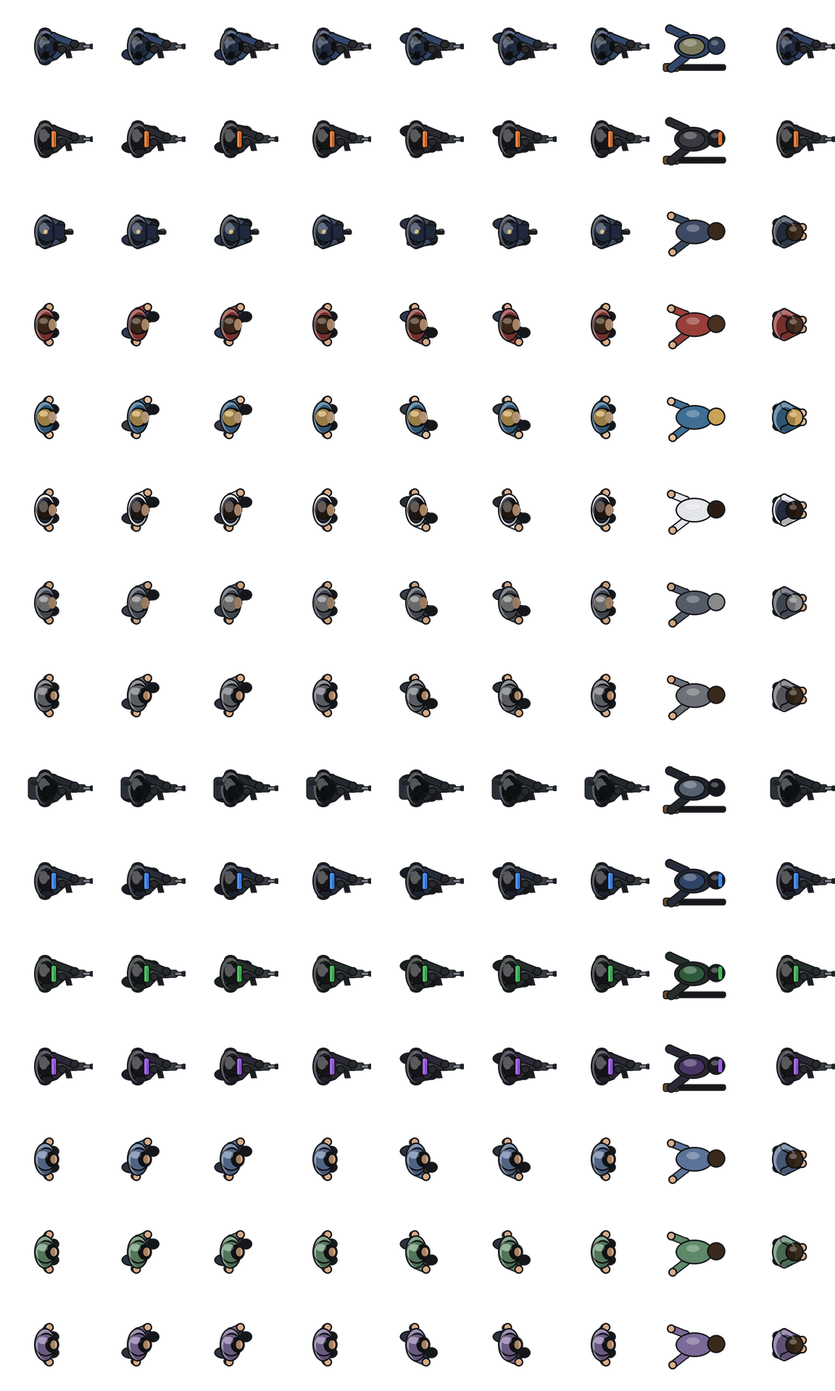
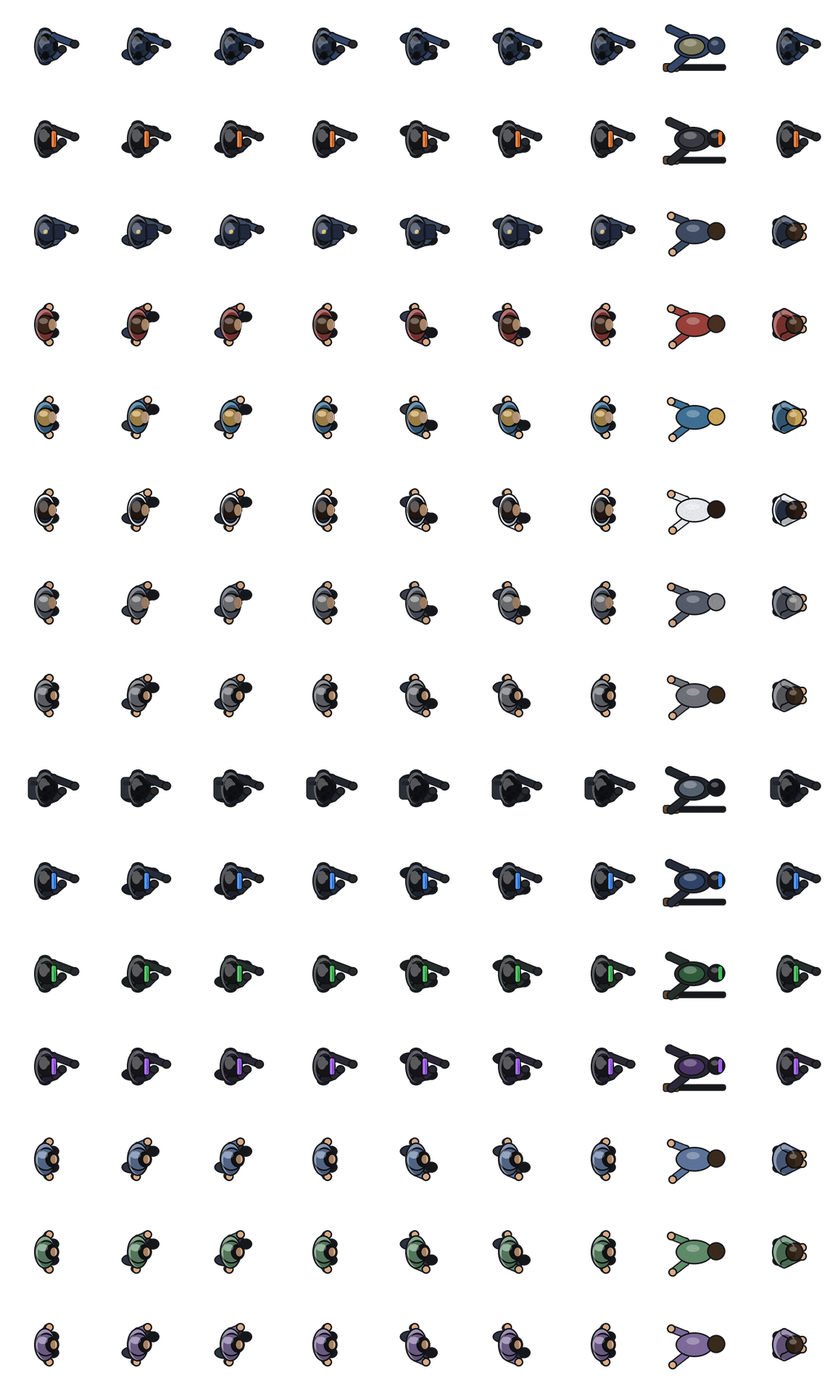
2D: Waffen sichtbar in der Hand, je Art ein eigenes Bild (#309)
Die bewaffneten Figuren in chars.png tragen keine Waffe mehr im Bild. js/draw.js zeichnet sie als eigenes Bild (props2.png ab (0,320)) ueber dem Koerper, in Blickrichtung gedreht: Pistole, MP, Sturmgewehr (kit.w), angelegtes Praezisionsgewehr und Granatwerfer, bei den Gegnern Beamter, Schild und Wachmann Pistole, SWAT Gewehr, Scharfschuetze Praezisionsgewehr. Muendungsfeuer sitzt an der Laufspitze der Art, die Waffe zuckt beim Schuss zurueck. Kein neues Netzfeld, fehlt das Bild wird ohne Waffe gezeichnet.

Closes #292

Claude-Session: https://claude.ai/code/session_013ZjezpqAXpbhY6DYUHu66t

diff --git a/js/draw.js b/js/draw.js
@@ -122,6 +122,12 @@ g.lineWidth=1.5;for(const q of d.other){if(q.d===2)continue;g.globalAlpha=q.d?.4
 g.font='10px monospace';g.fillStyle='#8d95a1';g.textAlign='right';g.fillText('T: Team wechseln',R.x+R.w-8,R.y+R.h-7);g.textAlign='left'}
 /* Der Fahrer im Deal (Zivilist-Zeile 3, am Boden Zeile 3 geduckt, im Fuehrerhaus unsichtbar), Mündungsfeuer ueber fl */
 function dvDraw(){const v=DX.dl.dv;if(!v||!los(DX.p.x,DX.p.y,v.x,v.y))return;const m=DX.LANE.van.mid(DX.vanX);if(DX.dl.st===3&&Math.hypot(v.x-m[0],v.y-m[1])<8)return;sprite(DX.ch,v.x,v.y,v.a,3,DX.dl.st===3?8:frame(v.w,v.mvg),v.h);if(v.fl>0){g.fillStyle='rgba(255,220,140,.9)';g.beginPath();g.arc(v.x+Math.cos(v.a)*24,v.y+Math.sin(v.a)*24,5,0,6.283);g.fill()}if(v.hp<v.mhp&&DX.dl.st===2){g.fillStyle='rgba(0,0,0,.55)';g.fillRect(v.x-11,v.y-21,22,4);g.fillStyle='#7ee34a';g.fillRect(v.x-10,v.y-20,20*Math.max(0,v.hp)/v.mhp,2)}}
+/* Waffen in der Hand (Ticket 292): eigene Bilder in props2.png ab (0,320), 64x64 je Art, 2 Pixel je Welt-Pixel, Lauf nach +x, Figurenmitte bei Bildpixel (0,32). c Zelle, tip Laufspitze in Welt-Pixeln
+   vor der Figurenmitte (dort sitzt das Muendungsfeuer), kick Rueckstoss der Waffe in Welt-Pixeln beim Schuss. Arten: pistol smg rifle (kit.w), spr Praezisionsgewehr und spl Granatwerfer (angelegte Spezialwaffe), Gegner: ENWPN.
+   Fehlt das Blatt (zu klein) oder die Art, wird ohne Waffe gezeichnet. Nur 2D, die 3D-Ansicht hat ihre eigenen Waffen. Kein Netzfeld: kit.w und der Spezialwaffen-Zustand der eigenen Figur sind schon da (f.wp, f.sw). */
+const WPN2D={pistol:{c:0,tip:20,kick:2},smg:{c:1,tip:27,kick:2.5},rifle:{c:2,tip:31,kick:3},spr:{c:3,tip:31,kick:4},spl:{c:4,tip:29,kick:4}},WPN2D_Y=320,ENWPN={cop:'pistol',grd:'pistol',shield:'pistol',swat:'rifle',sniper:'spr'};
+const plWpn=o=>!o.armed?null:o===DX.me&&DX.spwOn&&spwKind(o)?(spwKind(o)==='rifle'?'spr':'spl'):((o.kit&&o.kit.w)||'pistol'),enWpn=e=>e.sur||e.hp<=0?null:ENWPN[e.kind]||null,wTip=k=>(WPN2D[k]||WPN2D.rifle).tip+2;
+function wpnDraw(x,y,a,k,fl){const W=WPN2D[k],im=p2;if(!W||!im||!(im.naturalWidth>=W.c*64+64)||!(im.naturalHeight>=WPN2D_Y+64))return;const kk=fl>0&&GFX.lv>0?W.kick*Math.min(1,fl/.05):0;g.save();g.translate(x,y);g.rotate(a);g.drawImage(im,W.c*64,WPN2D_Y,64,64,-kk,-16,32,32);g.restore()}
 function sprite(img,x,y,a,row,col,hit,shadow){if(shadow!==false){g.fillStyle='rgba(15,10,5,.33)';g.beginPath();g.ellipse(x+5,y+6,11,9.5,0,0,6.283);g.fill()}
 g.save();g.translate(x,y);g.rotate(a);g.drawImage(hit>0?chF:DX.ch,col*128,row*128,128,128,-32,-32,64,64);g.restore()}
 const frame=(w,mvg)=>mvg?Math.floor((((w%6.2832)+6.2832)%6.2832)/6.2832*6)%6:6;
@@ -370,21 +376,21 @@ for(const o of DX.players)if(o.dead&&o.dn>0&&(o===DX.me||los(DX.p.x,DX.p.y,o.x,o
 for(const q of DX.WUCHT.parts())if(los(DX.p.x,DX.p.y,q.x,q.y))DX.WUCHT.part(g,q,q.z,1);
 for(const k of DX.pk)if(los(DX.p.x,DX.p.y,k.x,k.y)){const yy=k.y+Math.sin(DX.time*3+k.x)*1.5;g.fillStyle='rgba(15,10,5,.3)';g.beginPath();g.ellipse(k.x+2,k.y+6,9,4,0,0,6.283);g.fill();g.drawImage(pr,k.k*64,0,64,64,k.x-17,yy-17,34,34)}
 for(const q of DX.npcs){if(q.st==='away'||!los(DX.p.x,DX.p.y,q.x,q.y))continue;if(q.dlv)drawCart(q);if(q.st==='ko'){koDraw(q);continue}const col=q.st==='cower'?8:frame(q.w,q.mvg);if(q.st==='hostage'){g.strokeStyle='rgba(255,210,90,.9)';g.lineWidth=2;g.beginPath();g.arc(q.x,q.y+5,14,0,6.283);g.stroke()}{const tq=twd('n',q.id);sprite(DX.ch,q.x+tq[0],q.y+tq[1],q.a,q.row,col,0)}if(q.st==='cower'){if(q.rob){g.fillStyle='rgba(210,210,210,.85)';g.font='bold 11px monospace';g.fillText('$',q.x-3,q.y-20);g.strokeStyle='rgba(210,210,210,.85)';g.lineWidth=1.5;g.beginPath();g.moveTo(q.x-6,q.y-12);g.lineTo(q.x+6,q.y-24);g.stroke()}else if(q.rmi&&q.rmi.pr>0){g.fillStyle='rgba(0,0,0,.55)';g.fillRect(q.x-12,q.y-26,24,5);g.fillStyle='#ffd35a';g.fillRect(q.x-11,q.y-25,22*Math.min(1,q.rmi.pr),3)}}if(ucHintOn(q))ucHint(q);if(q.alert>0&&q.st!=='cower'){g.fillStyle='#ff4a3a';g.font='bold 16px monospace';g.fillText('!',q.x-3,q.y-20)}}
-for(const e of DX.en)if(los(DX.p.x,DX.p.y,e.x,e.y)){{const tq=twd('e',e.id);sprite(DX.ch,e.x+tq[0],e.y+tq[1],e.a,e.row,e.sur?8:frame(e.w,e.mvg),e.h)}if(e.kind==='shield')drawShield(e);const mh=e.mhp||100;if(e.hp<mh||e.kind==='swat'||e.kind==='shield'){g.fillStyle='rgba(0,0,0,.55)';g.fillRect(e.x-11,e.y-21,22,4);g.fillStyle=e.kind==='swat'?'#e0a030':e.kind==='shield'?'#7aa6d8':'#d9503f';g.fillRect(e.x-10,e.y-20,20*Math.max(0,e.hp)/mh,2)}}
+for(const e of DX.en)if(los(DX.p.x,DX.p.y,e.x,e.y)){{const tq=twd('e',e.id);sprite(DX.ch,e.x+tq[0],e.y+tq[1],e.a,e.row,e.sur?8:frame(e.w,e.mvg),e.h);wpnDraw(e.x+tq[0],e.y+tq[1],e.a,enWpn(e),e.fl)}if(e.kind==='shield')drawShield(e);const mh=e.mhp||100;if(e.hp<mh||e.kind==='swat'||e.kind==='shield'){g.fillStyle='rgba(0,0,0,.55)';g.fillRect(e.x-11,e.y-21,22,4);g.fillStyle=e.kind==='swat'?'#e0a030':e.kind==='shield'?'#7aa6d8':'#d9503f';g.fillRect(e.x-10,e.y-20,20*Math.max(0,e.hp)/mh,2)}}
 dvDraw();
 if(DX.cart&&los(DX.p.x,DX.p.y,DX.cart.x,DX.cart.y))drawWagen(DX.cart);
-for(const o of DX.players){if(o===DX.p||!live(o)||o.cv||!los(DX.p.x,DX.p.y,o.x,o.y))continue;lnMark(o);sprite(DX.ch,o.x+(lnOff(o)-rcl(o))*Math.cos(o.a),o.y+(lnOff(o)-rcl(o))*Math.sin(o.a),o.a,plRow(o),frame(o.w,o.mvg),o.hurt>.3?1:0);
+for(const o of DX.players){if(o===DX.p||!live(o)||o.cv||!los(DX.p.x,DX.p.y,o.x,o.y))continue;lnMark(o);sprite(DX.ch,o.x+(lnOff(o)-rcl(o))*Math.cos(o.a),o.y+(lnOff(o)-rcl(o))*Math.sin(o.a),o.a,plRow(o),frame(o.w,o.mvg),o.hurt>.3?1:0);wpnDraw(o.x+(lnOff(o)-rcl(o))*Math.cos(o.a),o.y+(lnOff(o)-rcl(o))*Math.sin(o.a),o.a,plWpn(o),o.flash);
 if(o.units>0){g.save();g.translate(o.x,o.y);g.rotate(o.a);g.drawImage(p2,0,0,64,64,-24,-12,24,24);g.restore()}
 if(DX.players.length>1){g.font='10px monospace';g.textAlign='center';g.fillStyle=PC[o.id].c;g.fillText(pn(o.id),o.x,o.y-20);if(o.away){const l=awLeft(o.id);g.fillStyle='#ffb000';g.fillText('Verbindung weg'+(l?' ('+l+' s)':''),o.x,o.y-31)}g.textAlign='left'}}
-if(live(DX.p)&&!DX.p.cv){lnMark(DX.p);sprite(DX.ch,DX.p.x+(lnOff(DX.p)-rcl(DX.p))*Math.cos(DX.p.a),DX.p.y+(lnOff(DX.p)-rcl(DX.p))*Math.sin(DX.p.a),DX.p.a,plRow(DX.p),frame(DX.p.w,DX.p.mvg),DX.p.hurt>.3?1:0);
+if(live(DX.p)&&!DX.p.cv){lnMark(DX.p);sprite(DX.ch,DX.p.x+(lnOff(DX.p)-rcl(DX.p))*Math.cos(DX.p.a),DX.p.y+(lnOff(DX.p)-rcl(DX.p))*Math.sin(DX.p.a),DX.p.a,plRow(DX.p),frame(DX.p.w,DX.p.mvg),DX.p.hurt>.3?1:0);wpnDraw(DX.p.x+(lnOff(DX.p)-rcl(DX.p))*Math.cos(DX.p.a),DX.p.y+(lnOff(DX.p)-rcl(DX.p))*Math.sin(DX.p.a),DX.p.a,plWpn(DX.p),DX.p.flash);
 if(DX.p.units>0){g.save();g.translate(DX.p.x,DX.p.y);g.rotate(DX.p.a);g.drawImage(p2,0,0,64,64,-24,-12,24,24);g.restore()}}
 drawGren();
 for(const q of DX.dbr)if(q.t==='r'){const u=q.a/q.m;glow(q.x,q.y,q.r*(1+u*1.3),'52,48,46',Math.min(1,(1-u)*1.6)*.38)}
 for(const q of DX.pt)if(q.t==='k'){const a=q.l/q.m;glow(q.x,q.y,q.r+(1-a)*(q.dr?58:34),'50,46,44',Math.min(.6,a*.95)*(q.dr?.75:1))}
 g.globalCompositeOperation='lighter';
 for(const b of DX.bl){const k=b.sn||b.pr?.05:b.o?.03:.02;g.strokeStyle=b.pr?'rgba(170,225,255,.95)':b.sn?'rgba(255,245,235,.95)':b.o?'rgba(255,225,150,.9)':'rgba(255,150,90,.8)';g.lineWidth=b.sn||b.pr?2.4:b.o?2:1.5;g.beginPath();g.moveTo(b.x,b.y);g.lineTo(b.x-b.vx*k,b.y-b.vy*k);g.stroke()}
-for(const o of DX.players){if(o.flash<=0||!live(o)||(o!==DX.p&&!los(DX.p.x,DX.p.y,o.x,o.y)))continue;const fx2=o.x+Math.cos(o.a)*34,fy2=o.y+Math.sin(o.a)*34;glow(fx2,fy2,34,'255,200,110',.9);g.save();g.translate(fx2,fy2);g.rotate(o.a);g.fillStyle='rgba(255,235,170,.9)';g.beginPath();g.moveTo(0,0);{const mv=GFX.lv>0?o.fv|0:0;if(mv===1){g.lineTo(19,-2.5);g.lineTo(12,0);g.lineTo(19,2.5)}else if(mv===2){g.lineTo(9,-5.5);g.lineTo(14,0);g.lineTo(9,5.5)}else{g.lineTo(14,-3);g.lineTo(9,0);g.lineTo(14,3)}}g.closePath();g.fill();g.restore()}
-for(const e of DX.en)if(e.fl>0&&los(DX.p.x,DX.p.y,e.x,e.y))glow(e.x+Math.cos(e.a)*(e.muz+2),e.y+Math.sin(e.a)*(e.muz+2),22,'255,170,90',.8);
+for(const o of DX.players){if(o.flash<=0||!live(o)||(o!==DX.p&&!los(DX.p.x,DX.p.y,o.x,o.y)))continue;const wt=wTip(plWpn(o)),fx2=o.x+Math.cos(o.a)*wt,fy2=o.y+Math.sin(o.a)*wt;glow(fx2,fy2,34,'255,200,110',.9);g.save();g.translate(fx2,fy2);g.rotate(o.a);g.fillStyle='rgba(255,235,170,.9)';g.beginPath();g.moveTo(0,0);{const mv=GFX.lv>0?o.fv|0:0;if(mv===1){g.lineTo(19,-2.5);g.lineTo(12,0);g.lineTo(19,2.5)}else if(mv===2){g.lineTo(9,-5.5);g.lineTo(14,0);g.lineTo(9,5.5)}else{g.lineTo(14,-3);g.lineTo(9,0);g.lineTo(14,3)}}g.closePath();g.fill();g.restore()}
+for(const e of DX.en)if(e.fl>0&&los(DX.p.x,DX.p.y,e.x,e.y)){const wt=enWpn(e)?wTip(enWpn(e)):e.muz+2;glow(e.x+Math.cos(e.a)*wt,e.y+Math.sin(e.a)*wt,22,'255,170,90',.8)};
 for(const q of DX.pt)if(q.t==='s'){g.fillStyle='rgba('+q.c+','+q.l/q.m+')';g.fillRect(q.x-1,q.y-1,2,2)}else if(q.t==='g')glow(q.x,q.y,q.r,q.c,q.l/q.m*.9);
 else if(q.t==='f'){const a=q.l/q.m;glow(q.x,q.y,q.r*(1+(1-a)*1.1),a>.62?'255,214,125':a>.3?'255,140,45':'190,60,20',Math.min(1,a*1.1))}
 else if(q.t==='w'){const a=q.l/q.m;g.strokeStyle='rgba(255,232,190,'+a*.75+')';g.lineWidth=1.5+a*4;g.beginPath();g.arc(q.x,q.y,q.r*(1-a),0,6.283);g.stroke()}

diff --git a/tests/cases/292-waffen-2d.test.js b/tests/cases/292-waffen-2d.test.js
@@ -1,0 +1,96 @@
+// Ticket #292 (2D: Waffen sichtbar in der Hand): Die Figuren in chars.png tragen keine Waffe mehr, js/draw.js zeichnet sie als eigenes Bild (props2.png ab (0,320), eine Zelle je Art, WPN2D) ueber dem Koerper,
+// mit der Blickrichtung gedreht: Pistole, MP, Sturmgewehr (kit.w), angelegte Spezialwaffe (Praezisionsgewehr, Granatwerfer), Gegner Beamter und Schild Pistole, SWAT Gewehr, Wachmann Pistole, Scharfschuetze Praezisionsgewehr.
+// Ohne Waffe: Zivilisten, unbewaffnete Raeuber (Phase 1), Tote, Aufgebende, Spieler am Boden. Rueckstoss beim Schuss (nur mit Grafikstufe ueber niedrig), fehlendes Bild kein Fehler, Coop-Client zeichnet dieselbe Waffe
+// (kit.w kommt ueber buildKits, kein neues Netzfeld). Gemessen wird ueber einen Spion auf drawImage (Zelle, Drehung, Versatz), nicht ueber Pixel.
+const SPY = `(() => {
+  const proto = CanvasRenderingContext2D.prototype; if (!window.__wspy) { window.__wspy = { log: [], img: null }; const o = proto.drawImage;
+    proto.drawImage = function (im, ...a) { if (im && im.naturalWidth === 736 && a.length === 8 && a[1] === 320 && a[2] === 64 && a[3] === 64) { const m = this.getTransform(); window.__wspy.img = im; window.__wspy.log.push({ c: a[0] / 64, dx: a[4], rot: Math.atan2(m.b, m.a) }); } return o.call(this, im, ...a); }; }
+  return window.__wspy; })()`;
+const SCENE = `(sk, phase1) => { const D = __dbg; D.sessReset(); Object.assign(D.SESSION.sk, sk || {}); D.setScenario('bank'); D.setSeedMode('random'); D.setLage([]); D.setTurn('S'); D.buildSeed(5017); D.CFG.policeAt = 1e6; D.CFG.policeForced = 1e6;
+  D.reset(); if (!phase1) D.startHeist(false, D.get().me); const g = D.get(), me = g.me; g.en.length = 0; me.hp = 100; me.a = 0.7; GFX.set('mittel'); return { D, g, me }; }`;
+const CELL = { pistol: 0, smg: 1, rifle: 2, spr: 3, spl: 4 };
+
+module.exports = [
+  {
+    name: 'Waffen 2D: Pistole, MP und Sturmgewehr des Spielers werden mit dem richtigen Bild gezeichnet, gedreht in Blickrichtung, genau eine Waffe je Figur',
+    async run(t) {
+      await t.loadInpage('coop.js');
+      const r = await t.page.evaluate(`(() => { const S = ${SPY}, o = {}; for (const w of ['pistol', 'smg', 'rifle']) { const { D, me } = (${SCENE})({}, false); me.kit = Object.assign({}, me.kit, { w }); S.log.length = 0; D.draw(); o[w] = S.log.slice(); o[w + 'a'] = me.a; } return o; })()`);
+      for (const w of ['pistol', 'smg', 'rifle']) {
+        t.eq(r[w].length, 1, w + ': genau eine Waffe');
+        t.eq(r[w][0].c, CELL[w], w + ': Zelle');
+        t.ok(Math.abs(r[w][0].rot - r[w + 'a']) < 1e-3, w + ': in Blickrichtung gedreht ' + r[w][0].rot);
+      }
+      t.ok(!t.page.errors.length, 'JS-Fehler: ' + t.page.errors.slice(0, 2).join(' | '));
+    },
+  },
+  {
+    name: 'Waffen 2D: Gegner (Beamter Pistole, SWAT Gewehr, Schild Pistole, Wachmann Pistole, Scharfschuetze Praezisionsgewehr), Aufgebende und Tote ohne Waffe, Zivilisten ohne, unbewaffneter Spieler ohne',
+    async run(t) {
+      await t.loadInpage('coop.js');
+      const r = await t.page.evaluate(`(() => { const S = ${SPY}, o = {}, { D, g, me } = (${SCENE})({}, false); me.kit = Object.assign({}, me.kit, { w: 'pistol' });
+        const add = (k, f) => { g.en.length = 0; const e = k === 'sniper' ? D.mkSniper({ x: me.x + 90, y: me.y, a: Math.PI }) : D.mkCop(me.x + 90, me.y, k === 'swat' ? true : k === 'shield' ? 'shield' : false); if (k === 'grd') { e.kind = 'grd'; e.row = 2; }
+          e.cool = 1e9; e.cd = 1e9; e.a = Math.PI; if (f) f(e); g.en.push(e); S.log.length = 0; D.draw(); return S.log.map(q => q.c).sort(); };
+        o.cop = add('cop'); o.swat = add('swat'); o.shield = add('shield'); o.grd = add('grd'); o.sniper = add('sniper'); o.sur = add('cop', e => { e.sur = true; }); o.tot = add('cop', e => { e.hp = 0; });
+        const sc2 = (${SCENE})({}, true); S.log.length = 0; sc2.D.draw(); o.phase1 = S.log.length; o.phase1Npcs = sc2.g.npcs.length; return o; })()`);
+      t.eq(r.cop, [0, 0], 'Beamter und Spieler: Pistole');
+      t.eq(r.swat, [0, 2], 'SWAT: Gewehr (Spieler Pistole)');
+      t.eq(r.shield, [0, 0], 'Schild-Beamter: Pistole');
+      t.eq(r.grd, [0, 0], 'Wachmann: Pistole');
+      t.eq(r.sniper, [0, 3], 'Scharfschuetze: Praezisionsgewehr');
+      t.eq(r.sur, [0], 'Aufgebender Beamter ohne Waffe (nur die des Spielers)');
+      t.eq(r.tot, [0], 'Beamter mit 0 Leben ohne Waffe');
+      t.eq(r.phase1, 0, 'Phase 1: unbewaffneter Spieler, Zivilisten und Personal ohne Waffe');
+      t.ok(r.phase1Npcs > 0, 'es gibt Zivilisten oder Personal im Spiel');
+    },
+  },
+  {
+    name: 'Waffen 2D: angelegte Spezialwaffe (rechte Maus) zeigt Praezisionsgewehr oder Granatwerfer, Loslassen wieder die Pistole; Tote und Spieler am Boden ohne Waffe in der Hand',
+    async run(t) {
+      await t.loadInpage('coop.js');
+      const r = await t.page.evaluate(`(() => { const S = ${SPY}, o = {}; for (const [k, sk] of [['spr', { A3: 1 }], ['spl', { A4: 1 }]]) { const { D, me } = (${SCENE})(sk, false); me.sx = 3; D.spwHold(true); o[k + 'On'] = D.spw(); S.log.length = 0; D.draw(); o[k] = S.log.map(q => q.c);
+          D.spwHold(false); S.log.length = 0; D.draw(); o[k + 'Off'] = S.log.map(q => q.c); }
+        const { D, me } = (${SCENE})({}, false); me.dead = true; S.log.length = 0; D.draw(); o.dead = S.log.length; me.dn = 5; S.log.length = 0; try { D.draw(); } catch (e) { o.err = String(e); } o.down = S.log.length; return o; })()`);
+      t.ok(r.sprOn && r.splOn, 'Spezialwaffe angelegt');
+      t.eq(r.spr, [3], 'Praezisionsgewehr: Zelle 3');
+      t.eq(r.spl, [4], 'Granatwerfer: Zelle 4');
+      t.eq([r.sprOff, r.splOff], [[0], [0]], 'abgelegt: wieder die Pistole');
+      t.eq(r.dead, 0, 'toter Spieler ohne Waffe');
+      t.eq(r.down, 0, 'Spieler am Boden ohne Waffe in der Hand (die Waffe liegt im Bild der Figur)');
+      t.ok(!r.err, 'kein Fehler beim Zeichnen: ' + r.err);
+    },
+  },
+  {
+    name: 'Waffen 2D: Rueckstoss beim Schuss (nur ab Grafikstufe mittel), fehlendes Bild (Blatt ohne Waffenzeile) zeichnet ohne Waffe und ohne Fehler',
+    async run(t) {
+      await t.loadInpage('coop.js');
+      const r = await t.page.evaluate(`(() => { const S = ${SPY}, o = {}, { D, me } = (${SCENE})({}, false); me.kit = Object.assign({}, me.kit, { w: 'rifle' });
+        S.log.length = 0; D.draw(); o.ruhe = S.log[0].dx; me.flash = .05; S.log.length = 0; D.draw(); o.schuss = S.log[0].dx; me.flash = .025; S.log.length = 0; D.draw(); o.halb = S.log[0].dx;
+        GFX.set('niedrig'); S.log.length = 0; D.draw(); o.niedrig = S.log[0].dx; GFX.set('mittel'); me.flash = 0;
+        Object.defineProperty(S.img, 'naturalHeight', { value: 128, configurable: true }); S.log.length = 0; try { D.draw(); } catch (e) { o.err = String(e); } o.fehlt = S.log.length; delete S.img.naturalHeight; S.log.length = 0; D.draw(); o.zurueck = S.log.length; return o; })()`);
+      t.eq(Math.abs(r.ruhe), 0, 'ohne Schuss kein Versatz');
+      t.ok(r.schuss < -2 && r.schuss > -5, 'beim Schuss rutscht die Waffe zurueck: ' + r.schuss);
+      t.ok(r.halb < 0 && r.halb > r.schuss, 'der Rueckstoss klingt ab: ' + r.halb);
+      t.eq(Math.abs(r.niedrig), 0, 'Stufe niedrig ohne Rueckstoss');
+      t.eq(r.fehlt, 0, 'ohne Waffenzeile im Blatt keine Waffe');
+      t.ok(!r.err, 'kein Fehler: ' + r.err);
+      t.eq(r.zurueck, 1, 'mit Blatt wieder eine Waffe');
+    },
+  },
+  {
+    name: 'Waffen 2D im Coop: der Client zeichnet Host und sich selbst mit der Waffe aus kit.w (kein neues Netzfeld), Gegner wie beim Host',
+    timeout: 120000,
+    async run(t) {
+      await t.loadTool('loopnet.js'); await t.loadInpage('coop.js');
+      const r = await t.page.evaluate(`(() => { const S = ${SPY}, o = {}, G = CT.mkGame('bank', 5017, 2, 40, 0, 0, 'S', ins => { for (const d of ins) d.SESSION.own.smg = 1; }), A = G.A, B = G.clients[0]; GFX.set('mittel');
+        A.startHeist(false, A.get().me); G.run(1.5); const e = A.mkCop(A.get().me.x + 80, A.get().me.y, true); e.cool = 1e9; A.get().en.push(e); G.run(.5);
+        o.kits = [A, B].map(d => d.get().players.map(p => p.kit && p.kit.w)); o.phase = [A.get().phase, B.get().phase];
+        const draw = d => { S.log.length = 0; d.draw(); return S.log.map(q => q.c).sort(); }; o.host = draw(A); o.client = draw(B); o.en = [A.get().en.length, B.get().en.length]; return o; })()`);
+      t.eq(r.phase, [2, 2], 'beide im Ueberfall');
+      t.eq(r.kits[1], r.kits[0], 'der Client kennt dieselben Waffen wie der Host');
+      t.eq(r.kits[1], ['smg', 'pistol'], 'Host mit MP (Vorbesitz vor dem Beitritt), Client mit Pistole');
+      t.eq(r.client, [0, 1, 2], 'Client zeichnet den Host mit MP, sich selbst mit Pistole und den SWAT mit Gewehr: ' + r.client.join(','));
+      t.ok([0, 1, 2].every(c => r.host.includes(c)), 'der Host zeichnet dieselben Arten (er sieht je nach Sichtlinie noch weitere Beamte): ' + r.host.join(','));
+    },
+  },
+];

diff --git a/gen_sprites.py b/gen_sprites.py
@@ -79,6 +79,9 @@ LIGHT = (255, 255, 255, 70)
 DARK = (0, 0, 0, 60)
 
 
+GUN_IN_SPRITE = False  # Waffen sind eigene Bilder (props2.png ab (0,320), siehe weapon_cell), nicht im Koerper
+
+
 def soldier(pal, phase=0.0, idle=False):
     c = Canvas(128, 4)
     sw = 0 if idle else math.sin(phase) * 12
@@ -103,15 +106,16 @@ def soldier(pal, phase=0.0, idle=False):
     c.E(62, 45, 7, 5, shade(uni, 1.05))
     c.E(62, 83, 7, 5, shade(uni, 1.05))
     rx = bob
-    wood = hexc(pal.get('wood', '#6b4a2b'))
-    c.P([(66 + rx, 62), (82 + rx, 60.5), (82 + rx, 67.5), (66 + rx, 68)], wood)
-    c.Rr(78 + rx, 59.5, 106 + rx, 68.5, hexc('#2a2d33'), r=2)
-    c.Rr(80 + rx, 60.5, 104 + rx, 63, hexc('#4a4e57'), ol=None, r=1)
-    c.Rr(100 + rx, 60, 116 + rx, 68, hexc(pal.get('guard', '#3a3d44')), r=2)
-    c.Rr(114 + rx, 62.4, 127 + rx, 65.6, hexc('#7b8088'), r=1, ow=1.2)
-    c.Rr(124 + rx, 61.2, 128 + rx, 66.8, hexc('#202226'), r=1, ow=1)
-    c.Rr(87 + rx, 57.5, 97 + rx, 60.3, hexc('#15171a'), r=1, ow=1.2)
-    c.P([(88 + rx, 68), (96 + rx, 68), (99 + rx, 80), (91 + rx, 80.5)], hexc('#1a1c20'))
+    if GUN_IN_SPRITE:
+        wood = hexc(pal.get('wood', '#6b4a2b'))
+        c.P([(66 + rx, 62), (82 + rx, 60.5), (82 + rx, 67.5), (66 + rx, 68)], wood)
+        c.Rr(78 + rx, 59.5, 106 + rx, 68.5, hexc('#2a2d33'), r=2)
+        c.Rr(80 + rx, 60.5, 104 + rx, 63, hexc('#4a4e57'), ol=None, r=1)
+        c.Rr(100 + rx, 60, 116 + rx, 68, hexc(pal.get('guard', '#3a3d44')), r=2)
+        c.Rr(114 + rx, 62.4, 127 + rx, 65.6, hexc('#7b8088'), r=1, ow=1.2)
+        c.Rr(124 + rx, 61.2, 128 + rx, 66.8, hexc('#202226'), r=1, ow=1)
+        c.Rr(87 + rx, 57.5, 97 + rx, 60.3, hexc('#15171a'), r=1, ow=1.2)
+        c.P([(88 + rx, 68), (96 + rx, 68), (99 + rx, 80), (91 + rx, 80.5)], hexc('#1a1c20'))
     skin = hexc('#2a2a2d') if pal.get('gloves') else hexc('#d2a37c')
     c.L((62, 46), (74, 50), 8, uni)
     c.L((74, 50), (101 + rx, 60.5), 7.5, uni)
@@ -192,7 +196,12 @@ def person(pal, phase=0.0, idle=False, mode='walk'):
     c.E(64 - sw, 75, 12, 6.5, pants)
     c.E(64 - sw + 9, 75, 6.5, 5.5, boots)
     pistol = pal.get('pistol')
-    if pistol:
+    if pistol and not GUN_IN_SPRITE:
+        c.L((62, 46), (74, 50), 8, uni)
+        c.L((74, 50), (101, 60.5), 7.5, uni)
+        c.L((62, 82), (76, 77), 8, uni)
+        c.L((76, 77), (85, 68.5), 7.5, uni)
+    elif pistol:
         c.L((62, 46), (82, 54), 8, uni)
         c.L((62, 82), (84, 74), 8, uni)
     else:
@@ -211,7 +220,10 @@ def person(pal, phase=0.0, idle=False, mode='walk'):
     if pal.get('belt'):
         c.Rr(54, 56, 60, 72, hexc('#1b1c20'), r=1, ow=1)
         c.Rr(50, 74, 58, 82, hexc('#22242a'), r=2, ow=1)
-    if pistol:
+    if pistol and not GUN_IN_SPRITE:
+        c.E(102, 61, 4.6, 4.2, hexc('#2a2a2d'))
+        c.E(85, 68, 4.4, 4.0, hexc('#2a2a2d'))
+    elif pistol:
         c.Rr(86, 62.2, 100, 66.4, hexc('#1c1e22'), r=1, ow=1.3)
         c.Rr(94, 60.6, 99, 62.4, hexc('#4a4e56'), r=0.5, ow=0.8)
         c.E(84, 55, 4.2, 4, hexc('#2a2a2d'))
@@ -287,6 +299,59 @@ fl[..., 0] = 255
 fl[..., 1] = 236
 fl[..., 2] = 236
 Image.fromarray(fl, 'RGBA').save(os.path.join(OUT, 'chars_flash.png'))
+
+
+def weapon_cell(kind):
+    """Waffe als eigenes Bild (64x64, 2 Pixel je Welt-Pixel, Lauf nach +x, Mitte der Figur bei Pixel (0,32)). Gezeichnet in Koerper-Koordinaten der Figuren (Haende bei (102,61) und (85,68)), dann ausgeschnitten."""
+    c = Canvas(128, 4)
+    dark, mid, steel, wood = hexc('#2a2d33'), hexc('#4a4e57'), hexc('#7b8088'), hexc('#6b4a2b')
+    if kind == 'pistol':
+        c.P([(86, 65), (93, 65), (91, 74), (84.5, 74)], hexc('#1a1c20'))
+        c.Rr(83, 59.6, 104, 65.8, hexc('#1c1e22'), r=1.5, ow=1.3)
+        c.Rr(88, 60.4, 102, 62, mid, ol=None, r=0.8)
+        c.Rr(101, 61.5, 105, 64, steel, r=0.8, ow=0.9)
+    elif kind == 'smg':
+        c.Rr(70, 60.3, 80, 66.5, hexc('#3a3d44'), r=1.5, ow=1.2)
+        c.P([(88, 67.5), (95, 67.5), (96, 80), (89, 80)], hexc('#1a1c20'))
+        c.Rr(78, 59.2, 108, 67.5, dark, r=2)
+        c.Rr(80, 60, 106, 62.4, mid, ol=None, r=1)
+        c.Rr(84, 57.2, 94, 59.4, hexc('#15171a'), r=1, ow=1.1)
+        c.Rr(106, 61.2, 119, 65.6, steel, r=1, ow=1.2)
+        c.Rr(116, 60.8, 120, 66, hexc('#202226'), r=1, ow=1)
+    elif kind == 'rifle':
+        c.P([(66, 62), (82, 60.5), (82, 67.5), (66, 68)], wood)
+        c.Rr(78, 59.5, 106, 68.5, dark, r=2)
+        c.Rr(80, 60.5, 104, 63, mid, ol=None, r=1)
+        c.Rr(100, 60, 116, 68, hexc('#3a3d44'), r=2)
+        c.Rr(114, 62.4, 127, 65.6, steel, r=1, ow=1.2)
+        c.Rr(124, 61.2, 128, 66.8, hexc('#202226'), r=1, ow=1)
+        c.Rr(87, 57.5, 97, 60.3, hexc('#15171a'), r=1, ow=1.2)
+        c.P([(88, 68), (96, 68), (99, 80), (91, 80.5)], hexc('#1a1c20'))
+    elif kind == 'spr':
+        c.P([(64, 62.5), (82, 60.5), (82, 67.5), (64, 69)], hexc('#4a3a2c'))
+        c.Rr(80, 60, 112, 67.5, dark, r=2)
+        c.Rr(82, 60.8, 110, 63, mid, ol=None, r=1)
+        c.Rr(110, 62.2, 128, 65.4, steel, r=1, ow=1.2)
+        c.Rr(86, 55, 106, 60.2, hexc('#14171b'), r=2, ow=1.2)
+        c.Rr(84.5, 55.8, 88, 59.4, hexc('#6cb4ff'), r=1, ow=0.9)
+        c.Rr(104, 55.8, 107.5, 59.4, hexc('#6cb4ff'), r=1, ow=0.9)
+        c.P([(92, 67.5), (98, 67.5), (97, 76), (92, 76)], hexc('#1a1c20'))
+    elif kind == 'spl':
+        c.P([(88, 70), (95, 70), (93, 79), (86, 79)], hexc('#1a1c20'))
+        c.Rr(68, 58.5, 74, 68.5, dark, r=1.5, ow=1.2)
+        c.Rr(72, 57, 112, 70, hexc('#5a6048'), r=3)
+        c.Rr(74, 58.2, 110, 61.5, (255, 255, 255, 50), ol=None, r=2, ov=True)
+        c.Rr(108, 55, 123, 72, hexc('#3c4132'), r=3, ow=1.6)
+        c.Rr(95, 53.5, 102, 57, hexc('#15171a'), r=1, ow=1.1)
+    return c.finish(noise=0.02, seed=17).crop((64, 32, 128, 96))
+
+
+WEAPONS = ['pistol', 'smg', 'rifle', 'spr', 'spl']
+wsheet = Image.new('RGBA', (64 * len(WEAPONS), 64), (0, 0, 0, 0))
+for i, k in enumerate(WEAPONS):
+    wsheet.paste(weapon_cell(k), (i * 64, 0))
+wsheet.save(os.path.join(OUT, '_waffen.png'))
+
 
 
 def bag():

diff --git a/tools/splice-waffen.py b/tools/splice-waffen.py
@@ -1,0 +1,25 @@
+#!/usr/bin/env python3
+"""Ticket 292: Waffen als eigene Bilder. Spleisst die Ergebnisse von gen_sprites.py in die eingecheckten Blaetter (Pillow weicht sonst ueberall minimal ab):
+Aufruf: python3 gen_sprites.py /tmp/gen && python3 tools/splice-waffen.py /tmp/gen
+- assets/chars.png und chars_flash.png: Zeilen 0, 1, 8, 9, 10, 11 (bewaffnete Figuren) Spalten 0 bis 6 und 8, Zeile 2 (Wachmann) Spalten 0 bis 6, ohne Waffe in der Hand (Tote in Spalte 7 behalten ihre Waffe am Boden).
+- assets/props2.png: Waffenbilder (5 Zellen 64x64) ab (0,320), Reihenfolge pistol, smg, rifle, spr (Praezisionsgewehr), spl (Granatwerfer). tools/gen_nb_sprites.py behaelt diesen Bereich."""
+import sys, os
+from PIL import Image
+gen = sys.argv[1]
+root = os.path.dirname(os.path.dirname(os.path.abspath(__file__)))
+A = os.path.join(root, 'assets')
+for name in ('chars.png', 'chars_flash.png'):
+    old = Image.open(os.path.join(A, name)).convert('RGBA')
+    new = Image.open(os.path.join(gen, name)).convert('RGBA')
+    for r, cols in ((0, (0, 1, 2, 3, 4, 5, 6, 8)), (1, (0, 1, 2, 3, 4, 5, 6, 8)), (8, (0, 1, 2, 3, 4, 5, 6, 8)), (9, (0, 1, 2, 3, 4, 5, 6, 8)),
+                    (10, (0, 1, 2, 3, 4, 5, 6, 8)), (11, (0, 1, 2, 3, 4, 5, 6, 8)), (2, (0, 1, 2, 3, 4, 5, 6))):
+        for c in cols:
+            box = (c * 128, r * 128, c * 128 + 128, r * 128 + 128)
+            old.paste(new.crop(box), box[:2])
+    old.save(os.path.join(A, name), optimize=True)
+p2 = Image.open(os.path.join(A, 'props2.png')).convert('RGBA')
+w = Image.open(os.path.join(gen, '_waffen.png')).convert('RGBA')
+p2.paste(Image.new('RGBA', (w.width, 64), (0, 0, 0, 0)), (0, 320))
+p2.alpha_composite(w, (0, 320))
+p2.save(os.path.join(A, 'props2.png'), optimize=True)
+print('ok')

diff --git a/tools/gen_nb_sprites.py b/tools/gen_nb_sprites.py
@@ -136,6 +136,8 @@ def extra_parts(sheet):
 def build(root):
     src = Image.open(os.path.join(root, 'assets', 'props2.png')).convert('RGBA').crop((0, 0, 704, 64))
     sheet = Image.new('RGBA', (736, 384), (0, 0, 0, 0)); sheet.paste(src, (0, 0))
+    old = Image.open(os.path.join(root, 'assets', 'props2.png')).convert('RGBA')
+    sheet.paste(old.crop((0, 320, 320, 384)), (0, 320))  # Waffenbilder (Ticket 292) bleiben erhalten
     sheet.alpha_composite(rig(), (0, 64))
     for i in range(4): sheet.alpha_composite(bit(i), (128 + i * 32, 64))
     extra_parts(sheet)

diff --git a/docs/assets-und-dateien.md b/docs/assets-und-dateien.md
@@ -4,10 +4,11 @@ Teil der Projektdoku, der Kern steht in `CLAUDE.md`. Hier stehen die Einzelheite
 
 ## Sprites und Assets
 
-- `assets/chars.png` (1152x1920): Figuren, Zellen 128px, gezeichnet mit 64px. Spalten 0-5 Laufen, 6 Idle, 7 tot, 8 geduckt. Zeilen: 0 Polizei, 1 Räuber bewaffnet (Maske), 2 Wachmann, 3 Zivilist A, 4 Zivilist B, 5 Kassierer, 6 Manager, 7 Räuber unbewaffnet (Phase 1), 8 SWAT (ab Welle 3), 9 bis 11 Räuber bewaffnet blau/grün/lila (Spieler 2 bis 4), 12 bis 14 Räuber unbewaffnet blau/grün/lila. Orange ist Spieler 1 (Zeilen 1 und 7). Figuren blicken nach +x und werden zur Laufzeit rotiert.
+- `assets/chars.png` (1152x1920): Figuren, Zellen 128px, gezeichnet mit 64px. Spalten 0-5 Laufen, 6 Idle, 7 tot, 8 geduckt. Zeilen: 0 Polizei, 1 Räuber bewaffnet (Maske), 2 Wachmann, 3 Zivilist A, 4 Zivilist B, 5 Kassierer, 6 Manager, 7 Räuber unbewaffnet (Phase 1), 8 SWAT (ab Welle 3), 9 bis 11 Räuber bewaffnet blau/grün/lila (Spieler 2 bis 4), 12 bis 14 Räuber unbewaffnet blau/grün/lila. Orange ist Spieler 1 (Zeilen 1 und 7). Figuren blicken nach +x und werden zur Laufzeit rotiert. Seit Ticket 292 tragen die bewaffneten Figuren (Zeilen 0, 1, 8, 9 bis 11 in den Spalten 0 bis 6 und 8, Wachmann Zeile 2 Spalten 0 bis 6) keine Waffe mehr im Bild, nur die Hände in Haltung (vorn (102,61), hinten (85,68) im 128er-Bild); die Waffe zeichnet `js/draw.js` darüber (`wpnDraw`, `WPN2D`). Tote (Spalte 7) behalten ihre Waffe am Boden.
 - `assets/chars_flash.png`: Trefferblinken, gleiches Layout.
 - `assets/props.png` (64px Zellen): 0 Holzkiste, 1 Militärkiste, 2-4 Fässer, 5 Munition, 6 Medkit.
 - `assets/props2.png` (64px Zellen): 0 Geldtasche, 1 Geldbündel, 2 Kasse, 3 Kamera (zeigt +x), 4 Notiz, 5 Schreibtisch mit Monitor, 6 Tastenfeld, 7 Pflanze, 8 Bank, 9 Schreibtisch mit Papier, 10 Geldautomat.
+  Waffenzeile ab y=320 (Ticket 292, `WPN2D` in `js/draw.js`): fünf Zellen 64x64 bei (0,320), (64,320) bis (256,320): 0 Pistole, 1 MP, 2 Sturmgewehr, 3 Präzisionsgewehr, 4 Granatwerfer. 2 Pixel je Welt-Pixel, Lauf nach +x, Figurenmitte bei Bildpixel (0,32), also wird die Zelle bei (0,-16) mit 32x32 gezeichnet. Kopf, Laufspitze (`tip`) und Rückstoß (`kick`) stehen in `WPN2D`. Fehlt die Zeile (Blatt zu klein), wird ohne Waffe gezeichnet. Erzeugt von `gen_sprites.py` (`weapon_cell`, Datei `_waffen.png`) und mit `python3 tools/splice-waffen.py <Ordner>` eingespleißt (auch die Figurenzeilen), `tools/gen_nb_sprites.py` behält den Bereich.
   Zweite Zeile ab y=64 (Notenbank, Ticket 65 und 66, erzeugt von `tools/gen_nb_sprites.py`, das die ersten 704x64 Pixel der Datei behält und deterministisch neu schreibt, Blatt 736 breit): (0,64) Bohrgestell 128x128 (2x2 Kacheln, Kragen bei (64,78)), (128,64) vier Bohrkronen 32x32 (Drehphasen 0, 22,5, 45, 67,5 Grad). Presse und Tische: (256,64) Presse 192x128 (3x2 Kacheln, Gehäuse grün mit Messing, Papierrolle links, Walzenschacht, Ausgabeschlitz), (448,64) drei Walzenphasen 32x32, (544,64) Förderband 64x32 (Muster mit 16 Pixel Periode, wird beim Zeichnen verschoben), (0,192) Ausgabetisch 128x192 (2x3 Kacheln), (128,192) Abgabetisch 128x64 (2x1 Kacheln), Blatt 736x384. Bilder der Maschinen im Spiel (dynamische Teile): `tools/nb-bilder.js`, Belege in `docs/bilder/`.
 - `assets/cars.png` (256x128 pro Zeile): 0 Fluchtwagen, 1 Polizeiauto, 2 rotes Auto, 3 blaues Auto, 4 Panzerwagen (wird 192x96 gezeichnet, Fahrerhaus rechts), alle nach +x. Die Panzerwagen-Zeile wurde wie die SWAT-Zeile nur angespleißt (Pillow-Abweichung), `gen_sprites.py` erzeugt sie in `truck()`.
 - `gen_sprites.py`: erzeugt die Sprites (PIL, numpy), Aufruf `python3 gen_sprites.py <Zielordner>`. Platzhalter-Grafik, selbst gezeichnet, jederzeit austauschbar. Neugenerieren weicht in `chars.png` minimal (bis 12/255) von den eingecheckten Dateien ab (Pillow-Version), deshalb wurde die SWAT-Zeile nur angespleißt statt alles zu überschreiben.

diff --git a/docs/offen-und-spieltest.md b/docs/offen-und-spieltest.md
@@ -11,6 +11,7 @@ Stand (27. Oktober 2026): `VER` 53, `UI_API` 11, die Build-Nummer steht in `inde
 
 ## Spieltest (ungespielt, kurz)
 
+- **Waffen in der Hand (2D, Ticket #292):** Pistole, MP und Sturmgewehr sehen verschieden aus, angelegtes Präzisionsgewehr und Granatwerfer (rechte Maus) auch, die Waffe zuckt beim Schuss zurück, das Mündungsfeuer sitzt an der Laufspitze. Beamte und Wachmann Pistole, SWAT Gewehr, Scharfschütze Präzisionsgewehr. Im Coop sieht man die Spezialwaffe nur bei sich selbst.
 - Gewehr und Granatwerfer (Skillbaum v2): rechte Maustaste halten legt an (Sicht zoomt in 3D etwas heraus), Linksklick feuert, Shift ist nur Schleichen. Gewehr: ein Treffer tötet alles, geht durch Schilde und Fenster; Stufe 3 markiert den nächsten Gegner fürs Team.
 - Selbstschuss-MG (Skillbaum v2, Stellung hinter Sprengmeister): Taste V halten zeigt Platz und Kegel, Loslassen stellt es mit Blick nach vorn. Beobachten: ob es die Polizei im Kegel wirklich aufhält, ob die Polizei es zu schnell abräumt, ob 40/60/80 Schuss reichen. Claymore bleibt auf 3.
 - **Autoexplosion mit Gewicht (Ticket #277, Vorschau unter /pr/<n>/):** Streifenwagen oder parkendes Auto beschießen bis es explodiert. Hebt es sichtbar ab, fliegen Tür, Motorhaube, Reifen weg und bleiben liegen, brennt das Wrack lange mit abziehender Rauchsäule? Auf Grafik niedrig nur Hüpfer und zwei Teile. Zu viel oder zu wenig Wucht?
